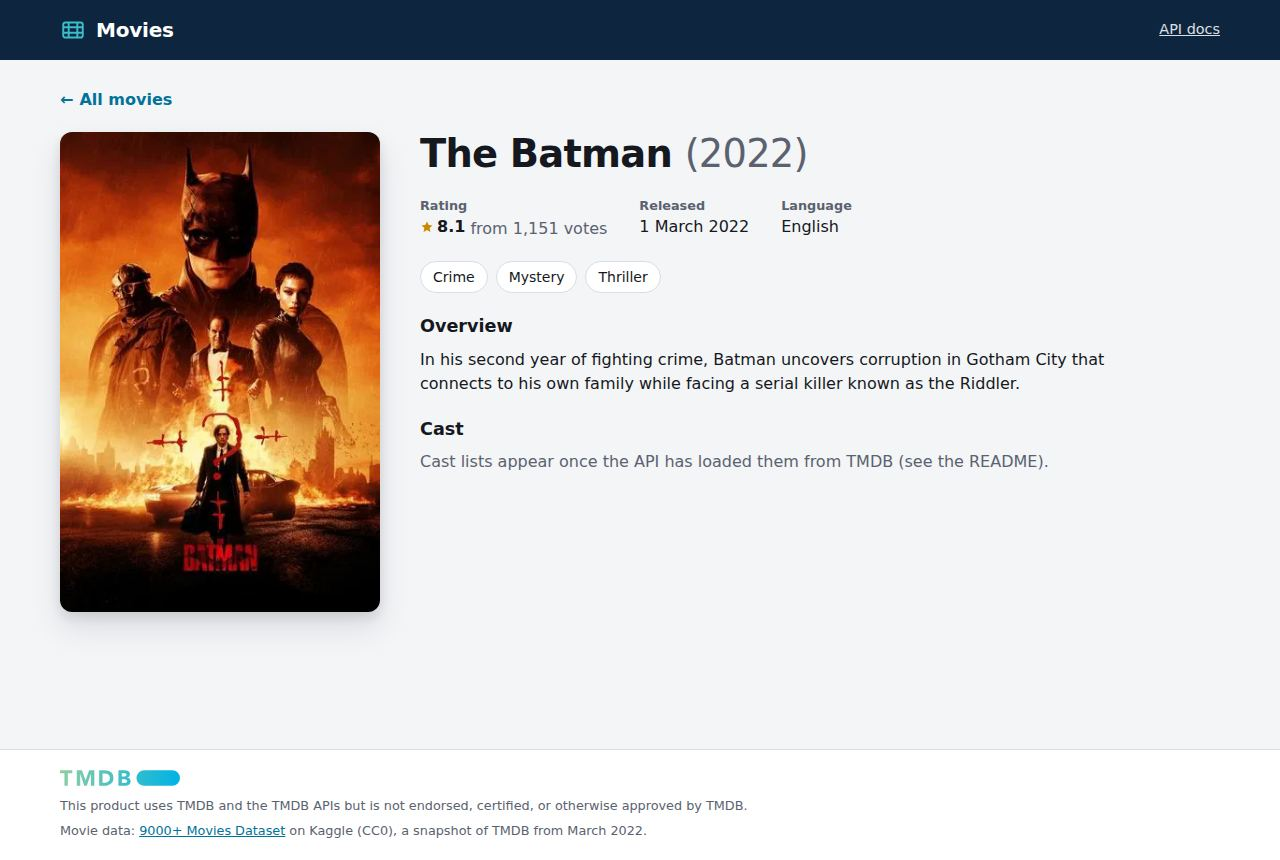
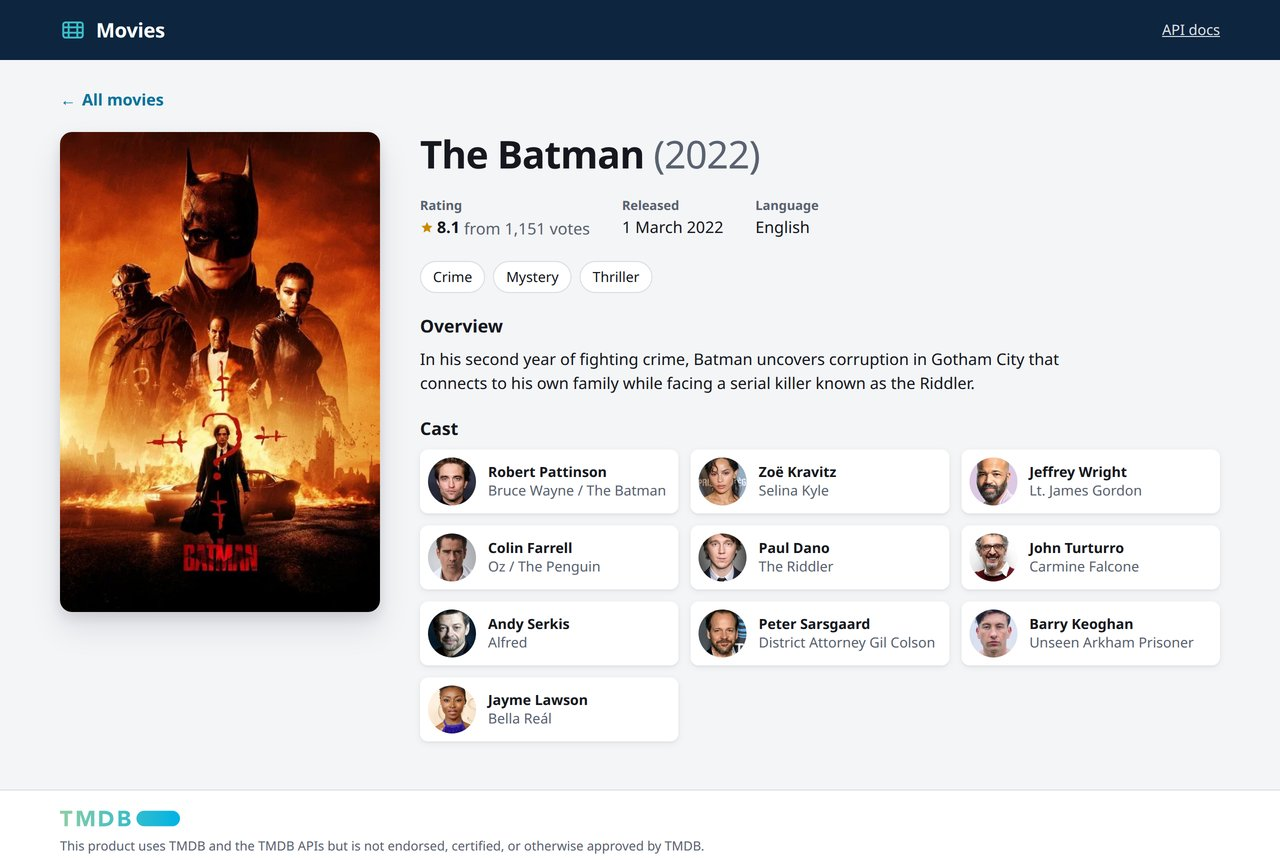
Update the README screenshots to show cast data
The screenshots showed the website before any cast data was loaded:
"No cast data yet" and a movie page without a cast. They now show the
actor filter in use (animated movies with Tom Hanks) and The Batman with
its cast. The README text now also mentions nginx compression, and that
the website disables its actor filter when there's no TMDB token.

Claude-Session: https://claude.ai/code/session_01VXLEJYSZ3eNuM7dh7RmSiA

diff --git a/README.md b/README.md
@@ -10,7 +10,7 @@ built with **ASP.NET Core (.NET 10)**, **EF Core** and **PostgreSQL**, plus a **
 - Filter by genre and by actor; sort by popularity, title, release date or rating.
 - Extra endpoints: movie details with cast, a genre list, actor search, a health check and OpenAPI/Swagger docs.
 
-![The search page: genre filters, sorting and a grid of movie posters](docs/images/search.jpg)
+![The search page filtered to animated movies with Tom Hanks: genre toggles, the actor filter, sorting and a grid of movie posters](docs/images/search.jpg)
 
 ## Run it
 
@@ -46,7 +46,7 @@ dataset itself came from.
 
 The API is usable straight away. Cast lists load in the background, most popular movies first. Loading all of
 them takes about 20 minutes, because the app stays at 20 requests a second. Without a token everything else
-works; actor filters just find nothing.
+works; the website disables its actor filter, and the API's actor filter finds nothing.
 
 Cast data isn't committed to this repository. [TMDB's terms](https://www.themoviedb.org/api-terms-of-use) don't
 allow keeping their data for more than six months or passing it on, so each installation fetches its own copy
@@ -116,7 +116,7 @@ are logged on the server, never sent to the client.
 
 ## The website
 
-![A movie's page: poster, rating, release date, genres and description](docs/images/details.jpg)
+![A movie's page: poster, rating, release date, genres, description and cast](docs/images/details.jpg)
 
 A single-page app in `src/movies-web`, built with **React 19**, **TypeScript** and **Vite**.
 
@@ -132,7 +132,8 @@ A single-page app in `src/movies-web`, built with **React 19**, **TypeScript** a
 - Light and dark mode follow the system setting, and the layout works on phones.
 
 In Docker, nginx serves the built site and forwards `/api` to the API container, so the browser only talks to
-one address (no CORS needed). In development, Vite's dev server does the same (see below).
+one address (no CORS needed). It also compresses responses, which shrinks the script bundle from 313 KB to 116 KB.
+In development, Vite's dev server forwards `/api` the same way (see below).
 
 ## Architecture
 
